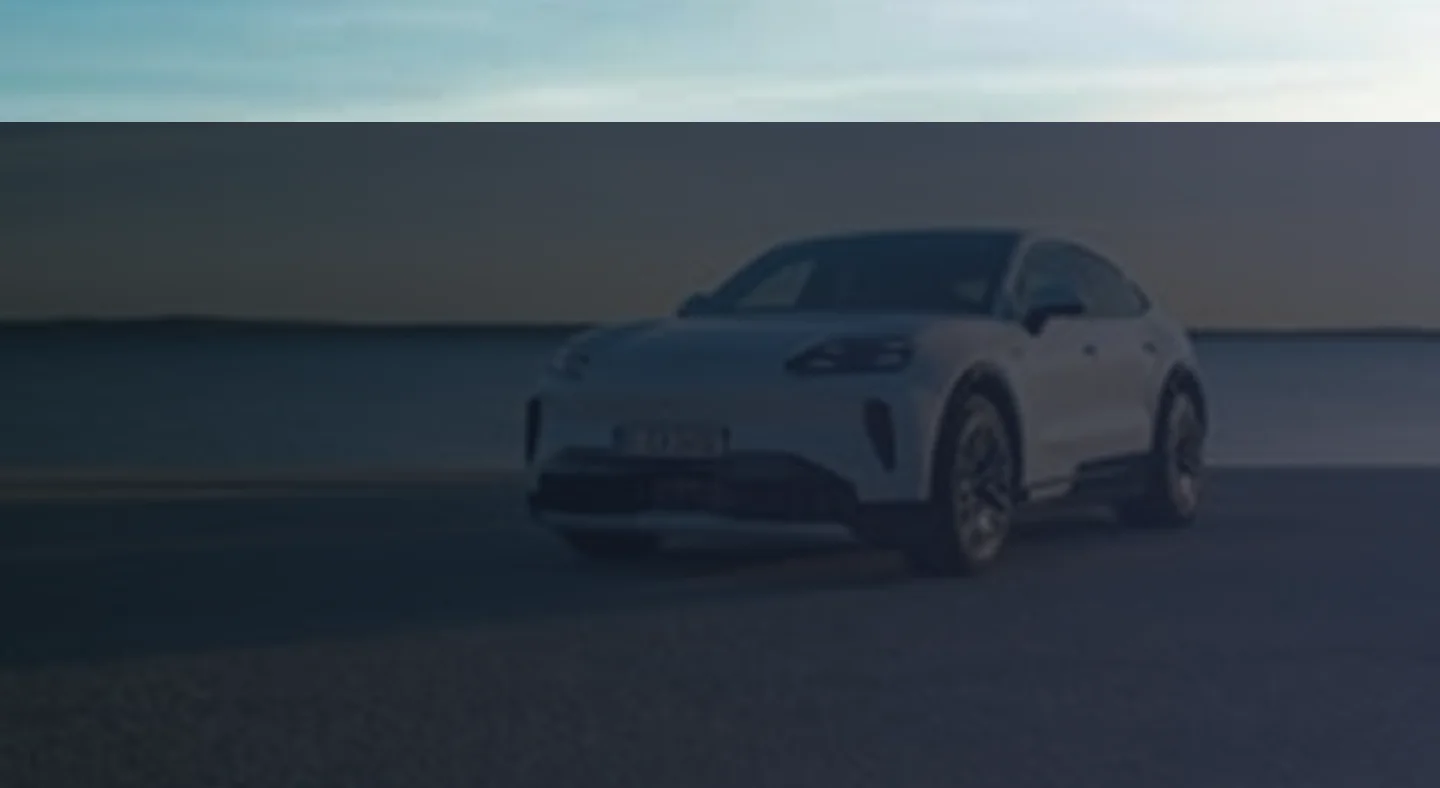
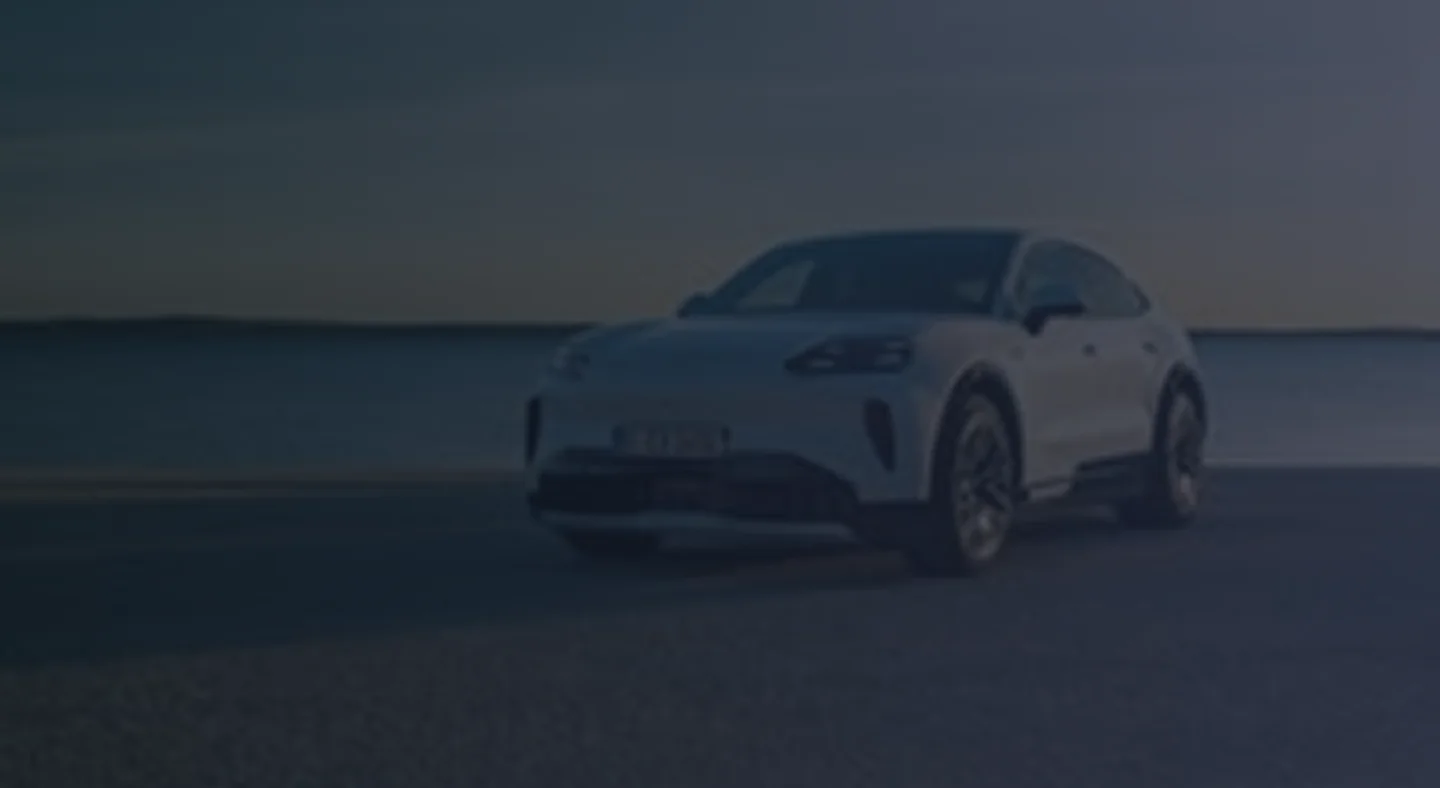
refactor: changes

Changed region(s): [[0.0, 0.0, 1.0, 0.1523]]

diff --git a/assets/css/styles.css b/assets/css/styles.css
@@ -202,7 +202,7 @@ html {
 
 body {
   font-family: var(--font-primary);
-  background-color: var(--dark-blue);
+  /* background-color: var(--dark-blue); */
   color: var(--text-white);
   line-height: 1.6;
   min-height: 100vh;
@@ -592,12 +592,12 @@ img {
   min-height: 520px;
   background-image: url("../images/cars/cars-banner-image.webp");
   background-size: cover;
-  background-position: center right;
+  background-position: center center;
   background-repeat: no-repeat;
   display: flex;
-  align-items: flex-end;
-  padding: 5.5rem 0 0;
-  overflow: visible;
+  align-items: center;
+  padding: 5.5rem 0;
+  overflow: hidden;
 }
 
 .cars-hero-container {
@@ -607,25 +607,20 @@ img {
   width: 100%;
   position: relative;
   z-index: 2;
-  display: flex;
-  flex-direction: column;
-  justify-content: flex-end;
-  gap: 3.5rem;
 }
 
 .cars-hero-content {
   display: flex;
   flex-direction: column;
   align-items: flex-start;
-  max-width: 800px;
-  padding-bottom: 1rem;
+  max-width: 780px;
 }
 
 /* Breadcrumb */
 .cars-breadcrumb {
   display: inline-flex;
   align-items: center;
-  gap: 0.5rem;
+  gap: 0.6rem;
   font-size: 1.05rem;
   font-weight: 600;
   margin-bottom: 1.5rem;
@@ -663,6 +658,10 @@ img {
   letter-spacing: -0.5px;
 }
 
+.cars-hero-title .text-accent {
+  color: var(--primary-red);
+}
+
 .cars-hero-description {
   font-size: clamp(1.15rem, 1.8vw, 1.35rem);
   font-weight: 600;
@@ -671,7 +670,26 @@ img {
   max-width: 680px;
 }
 
-/* Cars Filter Bar */
+/* --------------------------------------------------------------------------
+   CARS PAGE FILTER BAR SECTION
+   -------------------------------------------------------------------------- */
+.cars-filter-section {
+  width: 100%;
+  background-color: #ffffff;
+  position: relative;
+  z-index: 10;
+  padding: 0;
+  margin-top: -3.5rem;
+  margin-bottom: 0.5rem;
+}
+
+.cars-filter-container {
+  max-width: var(--container-max-width);
+  margin: 0 auto;
+  padding: 0 2.5rem;
+  width: 100%;
+}
+
 .cars-filter-bar {
   background-color: #0b0f19;
   border: 1px solid rgba(255, 255, 255, 0.18);
@@ -685,8 +703,6 @@ img {
   width: 100%;
   position: relative;
   z-index: 10;
-  transform: translateY(50%);
-  margin-bottom: 0;
 }
 
 .filter-group {
@@ -4419,19 +4435,15 @@ img {
 
   .about-hero-section,
   .services-hero-section,
+  .cars-hero-section,
   .blog-hero-section,
   .contact-hero-section {
     min-height: auto;
     padding: 4.5rem 0;
   }
 
-  .cars-hero-section {
-    min-height: auto;
-    padding: 4.5rem 0 0;
-  }
-
-  .cars-hero-container {
-    gap: 2.5rem;
+  .cars-filter-section {
+    margin-top: -2.5rem;
   }
 
   .hero-content {
@@ -4467,7 +4479,7 @@ img {
   }
 
   .popular-cars-section {
-    padding: 7rem 0 2.5rem;
+    padding: 8.5rem 0 2.5rem;
   }
 
   .categories-section {
@@ -4803,7 +4815,7 @@ img {
   }
 
   .popular-cars-section {
-    padding: 9.5rem 0 2.5rem;
+    padding: 11.5rem 0 2.5rem;
   }
 
   .cars-grid {
@@ -4902,6 +4914,7 @@ img {
 
   .hero-container,
   .cars-hero-container,
+  .cars-filter-container,
   .about-hero-container,
   .services-hero-container,
   .blog-hero-container,
@@ -4987,7 +5000,7 @@ img {
   }
 
   .popular-cars-section {
-    padding: 14rem 0 2rem;
+    padding: 16.5rem 0 2rem;
   }
 
   .categories-section {

diff --git a/pages/cars.html b/pages/cars.html
@@ -35,7 +35,6 @@
       <section class="cars-hero-section" id="cars-hero">
         <div class="cars-hero-overlay"></div>
         <div class="cars-hero-container">
-          <!-- Top / Content Area -->
           <div class="cars-hero-content">
             <nav class="cars-breadcrumb" aria-label="Breadcrumb">
               <a href="../index.html" class="breadcrumb-item">Home</a>
@@ -43,15 +42,22 @@
               <span class="breadcrumb-item active">Cars</span>
             </nav>
 
-            <h1 class="cars-hero-title">Cars</h1>
+            <h1 class="cars-hero-title">
+              Explore Our<br />
+              <span class="text-accent">Cars</span>
+            </h1>
 
             <p class="cars-hero-description">
               Explore our wide range of premium new and used cars.<br />
               Find the perfect car that matches your style and needs.
             </p>
           </div>
+        </div>
+      </section>
 
-          <!-- Bottom Filter Bar -->
+      <!-- Cars Filter Bar Section -->
+      <section class="cars-filter-section" id="cars-filter">
+        <div class="cars-filter-container">
           <div class="cars-filter-bar">
             <div class="filter-group">
               <label for="filter-make" class="filter-label">Make</label>
